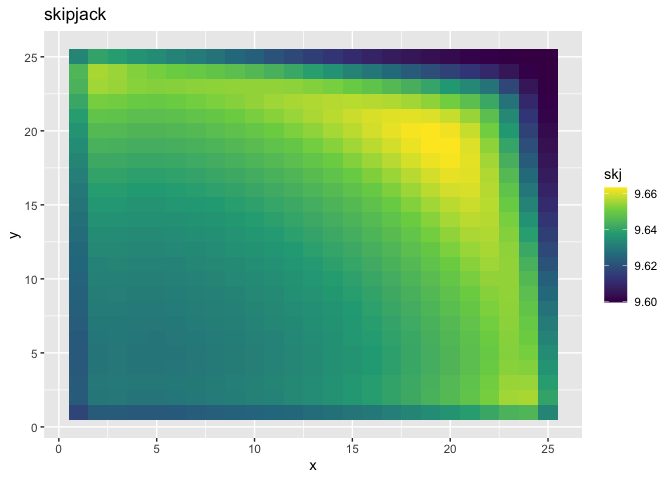
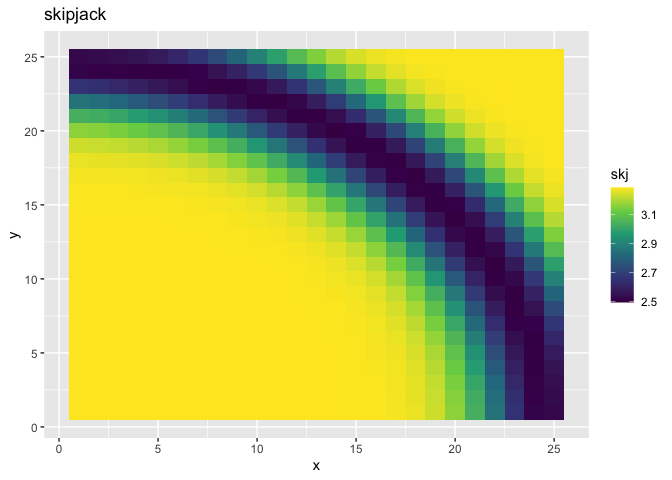
first version with fishing by multiple fleets enabled

diff --git a/src/RcppExports.cpp b/src/RcppExports.cpp
@@ -28,14 +28,15 @@ BEGIN_RCPP
 END_RCPP
 }
 // sim_fish_pop
-List sim_fish_pop(const NumericVector length_at_age, const NumericVector weight_at_age, const NumericVector maturity_at_age, const Eigen::MatrixXd movement, const Rcpp::NumericMatrix last_n_p_a, const int patches, const int burn_steps, const double steepness, const double r0, double ssb0, const double m, bool tune_unfished);
-RcppExport SEXP _marlin_sim_fish_pop(SEXP length_at_ageSEXP, SEXP weight_at_ageSEXP, SEXP maturity_at_ageSEXP, SEXP movementSEXP, SEXP last_n_p_aSEXP, SEXP patchesSEXP, SEXP burn_stepsSEXP, SEXP steepnessSEXP, SEXP r0SEXP, SEXP ssb0SEXP, SEXP mSEXP, SEXP tune_unfishedSEXP) {
+List sim_fish_pop(const NumericVector length_at_age, const NumericVector weight_at_age, const NumericVector maturity_at_age, const NumericMatrix f_p_a, const Eigen::MatrixXd movement, const Rcpp::NumericMatrix last_n_p_a, const int patches, const int burn_steps, const double steepness, const double r0, double ssb0, const double m, bool tune_unfished);
+RcppExport SEXP _marlin_sim_fish_pop(SEXP length_at_ageSEXP, SEXP weight_at_ageSEXP, SEXP maturity_at_ageSEXP, SEXP f_p_aSEXP, SEXP movementSEXP, SEXP last_n_p_aSEXP, SEXP patchesSEXP, SEXP burn_stepsSEXP, SEXP steepnessSEXP, SEXP r0SEXP, SEXP ssb0SEXP, SEXP mSEXP, SEXP tune_unfishedSEXP) {
 BEGIN_RCPP
     Rcpp::RObject rcpp_result_gen;
     Rcpp::RNGScope rcpp_rngScope_gen;
     Rcpp::traits::input_parameter< const NumericVector >::type length_at_age(length_at_ageSEXP);
     Rcpp::traits::input_parameter< const NumericVector >::type weight_at_age(weight_at_ageSEXP);
     Rcpp::traits::input_parameter< const NumericVector >::type maturity_at_age(maturity_at_ageSEXP);
+    Rcpp::traits::input_parameter< const NumericMatrix >::type f_p_a(f_p_aSEXP);
     Rcpp::traits::input_parameter< const Eigen::MatrixXd >::type movement(movementSEXP);
     Rcpp::traits::input_parameter< const Rcpp::NumericMatrix >::type last_n_p_a(last_n_p_aSEXP);
     Rcpp::traits::input_parameter< const int >::type patches(patchesSEXP);
@@ -45,7 +46,7 @@ BEGIN_RCPP
     Rcpp::traits::input_parameter< double >::type ssb0(ssb0SEXP);
     Rcpp::traits::input_parameter< const double >::type m(mSEXP);
     Rcpp::traits::input_parameter< bool >::type tune_unfished(tune_unfishedSEXP);
-    rcpp_result_gen = Rcpp::wrap(sim_fish_pop(length_at_age, weight_at_age, maturity_at_age, movement, last_n_p_a, patches, burn_steps, steepness, r0, ssb0, m, tune_unfished));
+    rcpp_result_gen = Rcpp::wrap(sim_fish_pop(length_at_age, weight_at_age, maturity_at_age, f_p_a, movement, last_n_p_a, patches, burn_steps, steepness, r0, ssb0, m, tune_unfished));
     return rcpp_result_gen;
 END_RCPP
 }
@@ -129,7 +130,7 @@ END_RCPP
 static const R_CallMethodDef CallEntries[] = {
     {"_marlin_timesTwo", (DL_FUNC) &_marlin_timesTwo, 1},
     {"_marlin_sample_problem", (DL_FUNC) &_marlin_sample_problem, 0},
-    {"_marlin_sim_fish_pop", (DL_FUNC) &_marlin_sim_fish_pop, 12},
+    {"_marlin_sim_fish_pop", (DL_FUNC) &_marlin_sim_fish_pop, 13},
     {"_marlin_popmodel", (DL_FUNC) &_marlin_popmodel, 14},
     {"_marlin_move_matrix_eigen", (DL_FUNC) &_marlin_move_matrix_eigen, 3},
     {"_marlin_sraplus", (DL_FUNC) &_marlin_sraplus, 29},

diff --git a/src/fish_model.cpp b/src/fish_model.cpp
@@ -8,6 +8,7 @@ List sim_fish_pop(
     const NumericVector length_at_age,
     const NumericVector weight_at_age,
     const NumericVector maturity_at_age,
+    const NumericMatrix f_p_a,
     const Eigen::MatrixXd movement,
     const Rcpp::NumericMatrix last_n_p_a,
     const int patches,
@@ -58,6 +59,7 @@ List sim_fish_pop(
         length_at_age,
         weight_at_age,
         maturity_at_age,
+        f_p_a,
         movement,
         tmp_n_p_a,
         patches,
@@ -70,9 +72,6 @@ List sim_fish_pop(
 
       tmp_n_p_a = wrap(tmppop["n_p_a"]);
 
-     // NumericMatrix tmp_n_p_a = (tmppop["n_p_a"]);
-
-      // Rcpp::List tmppop;
 
     }
 
@@ -80,23 +79,15 @@ List sim_fish_pop(
 
     ssb0 = sum(tmp_ssb_p_a);
 
-    // return(tmp);
 
 
   }
 
-
-
   //////////////////// move ////////////////////////
 
-  // for (int s = 0; s < steps; s++){
-
-    // Rcpp::Rcout << s << std::endl;
 
     tmpmat =  movement * tmpmat; // matrix multiplication of numbers at age by movement matrix
 
-
-  // }
 
   SEXP tmp = Rcpp::wrap(tmpmat); // convert from eigen to Rcpp
 
@@ -104,37 +95,21 @@ List sim_fish_pop(
 
   //////////////////// grow ////////////////////////
 
-  // NumericMatrix last_n_p_a = n_p_a;
 
-  NumericVector plus_group = n_p_a(_,ages - 1) * exp(-m);
+  NumericVector plus_group = n_p_a(_,ages - 1) * exp(-(m +f_p_a(_,ages - 1)));
 
-  // Rcpp::Rcout << "last is" << last_n_p_a(0,0) * exp(-m) << std::endl;
-
-  // Rcpp::Rcout << "before is" << n_p_a(0,1)<< std::endl;
-
-  // Rcpp::Rcout << "exp is" <<exp(-m)<< std::endl;
-
-  // std::cout << "exp is" << last_n_p_a(_,11)* exp(-m)<< std::endl;
-
+  // last_n_p_a(_,Range(0,ages - 1));
+  //   
+  //   f_p_a(_, Range(0, ages - 1));
+  
   for (int a = 1; a < ages; a++){
 
-    // NumericMatrix::Column wtf = last_n_p_a(_,a - 1);
-
-    // Rcpp::Rcout << "a is" << a - 1<< std::endl;
-
-    n_p_a(_,a) =  last_n_p_a(_,a - 1) * exp(-m);
+    n_p_a(_,a) =  last_n_p_a(_,a - 1) * exp(-(m + f_p_a(_,a - 1)));
 
 
   }
 
-  // Rcpp::Rcout << "new is" << n_p_a(0,1)<< std::endl;
-
   n_p_a(_, ages - 1) = n_p_a(_, ages - 1) + plus_group;
-
-  // n_p_a(1, _) = rep(999, ages);
-
-  // weight_at_age = weight_at_age + 999;
-
 
   for (int p = 0;p < patches; p++){
 
@@ -149,7 +124,11 @@ List sim_fish_pop(
     if (tune_unfished == 1){
 
       n_p_a(_,0) = rep(r0 / patches, patches);
-
+      
+      b_p_a(_,0) =   n_p_a(_,0) * weight_at_age(0);
+      
+      ssb_p_a(_,0) =   b_p_a(_,0) * maturity_at_age(0);
+      
     } else {
 
       // global density dependence, distribute recruits evenly
@@ -159,6 +138,11 @@ List sim_fish_pop(
 
       n_p_a(_,0) = rep(((0.8 * r0 * steepness * ssb) / (0.2 * ssb0 * (1 - steepness) + (steepness - 0.2) * ssb)) / patches, patches);
 
+      b_p_a(_,0) =   n_p_a(_,0) * weight_at_age(0);
+      
+      ssb_p_a(_,0) =   b_p_a(_,0) * maturity_at_age(0);
+      
+      
     }
 
   //////////////////// process results ////////////////////////

diff --git a/README.md b/README.md
@@ -33,12 +33,12 @@ unfished conditions
 ``` r
 library(marlin)
 library(tidyverse)
-#> ── Attaching packages ──────────── tidyverse 1.3.0 ──
+#> ── Attaching packages ──── tidyverse 1.3.0 ──
 #> ✓ ggplot2 3.3.1     ✓ purrr   0.3.4
 #> ✓ tibble  3.0.1     ✓ dplyr   1.0.0
 #> ✓ tidyr   1.1.0     ✓ stringr 1.4.0
 #> ✓ readr   1.3.1     ✓ forcats 0.5.0
-#> ── Conflicts ─────────────── tidyverse_conflicts() ──
+#> ── Conflicts ─────── tidyverse_conflicts() ──
 #> x dplyr::filter() masks stats::filter()
 #> x dplyr::lag()    masks stats::lag()
 options(dplyr.summarise.inform = FALSE)
@@ -80,7 +80,7 @@ fauna <-
     "bigeye" = create_critter(
       common_name = "bigeye tuna",
       habitat = bet_hab,
-      adult_movement = 20
+      adult_movement = 100
     )
   )
 #> ══  1 queries  ═══════════════
@@ -96,24 +96,24 @@ fauna <-
 
 fleets <- list("longline" = list(
   skipjack = list(
-    price = 10,
-    sel_form = "logistic",
-    sel_start = 1,
-    sel_delta = .1,
-    catchability = .1
-  ),
-  bigeye = list(
     price = 100,
     sel_form = "logistic",
-    sel_start = .25,
-    sel_delta = .25,
-    catchability = .1
+    sel_start = 0,
+    sel_delta = .1,
+    catchability = .4
+  ),
+  bigeye = list(
+    price = 1000,
+    sel_form = "logistic",
+    sel_start = 1,
+    sel_delta = .01,
+    catchability = .01
   )
 ))
 
 
 
-fleets <- launch_fleet(fleets = fleets, fauna = fauna)
+fleets <- launch_fleet(fleets = fleets, fauna = fauna, base_effort = resolution^2)
 
 
 
@@ -127,7 +127,7 @@ storage <- simmar(fauna = fauna,
                   steps = steps)
 
 Sys.time() - a
-#> Time difference of 0.500561 secs
+#> Time difference of 0.6775041 secs
   
   
 rec <- map(storage, ~ .x[[2]]$n_p_a) %>%
